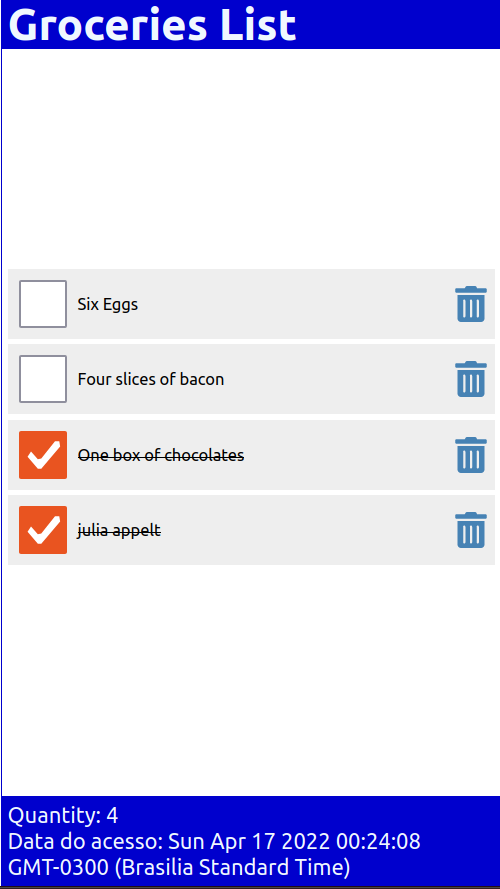
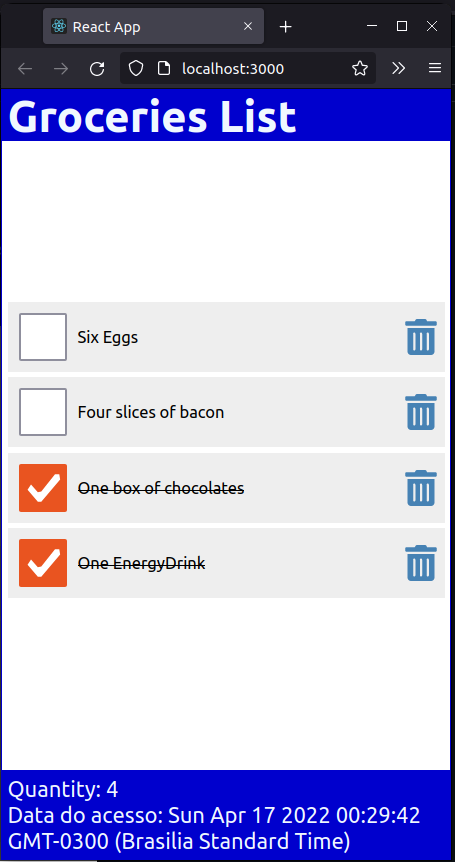
ajustes

Changed region(s): [[0.0, 0.0, 1.0, 1.0]]

diff --git a/src/App.js b/src/App.js
@@ -24,7 +24,7 @@ function App() {
     {
         id:4,
         checked:true,
-        item: "julia appelt"
+        item: "One EnergyDrink"
       }
 ]);
 
